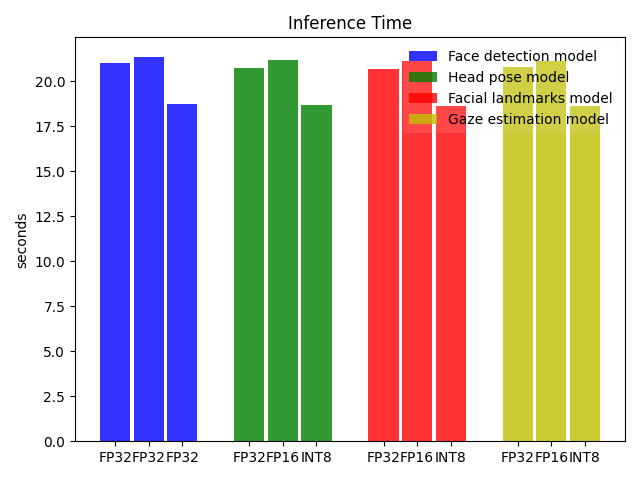
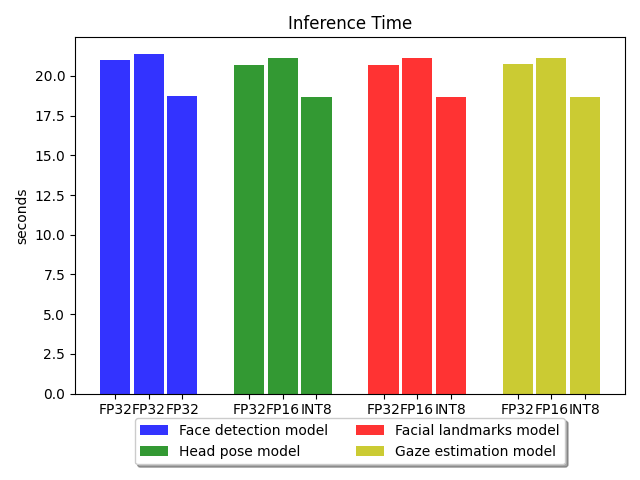
Fix: placed legend outside the bar chart box

diff --git a/src/plot_benchmark.py b/src/plot_benchmark.py
@@ -57,11 +57,6 @@ def plot_file(filename, title, ylabel):
             color=colors[i],
             label=model_names[i][0],
         )
-        # for idx,rect in enumerate(pltbar):
-        #     height = rect.get_height()
-        #     ax.text(rect.get_x() + rect.get_width()/2., 1.05*height,
-        #             data[i][idx],
-        #             ha='center', va='bottom', rotation=0)
 
     plt.ylabel(ylabel)
     plt.title(title)
@@ -83,16 +78,12 @@ def plot_file(filename, title, ylabel):
         ),
     )
 
-    # for i, v in enumerate([0, 1, 2, 4, 5, 6, 8, 9, 10, 12, 13, 14]):
-    #     ax.text(v + 3, i + .25, str(v), color='blue', fontweight='bold')
-
-    plt.legend(framealpha=0.1)
+    plt.legend(loc="upper center", bbox_to_anchor=(0.5, -0.05), shadow=True, ncol=2)
 
     plt.tight_layout()
     imagefilename = "output/{}.png".format(filename.split(".")[0])
     print("Saving image to {}".format(imagefilename))
     fig.savefig(imagefilename)
-    # plt.show()
 
 
 def plot_all_files():
